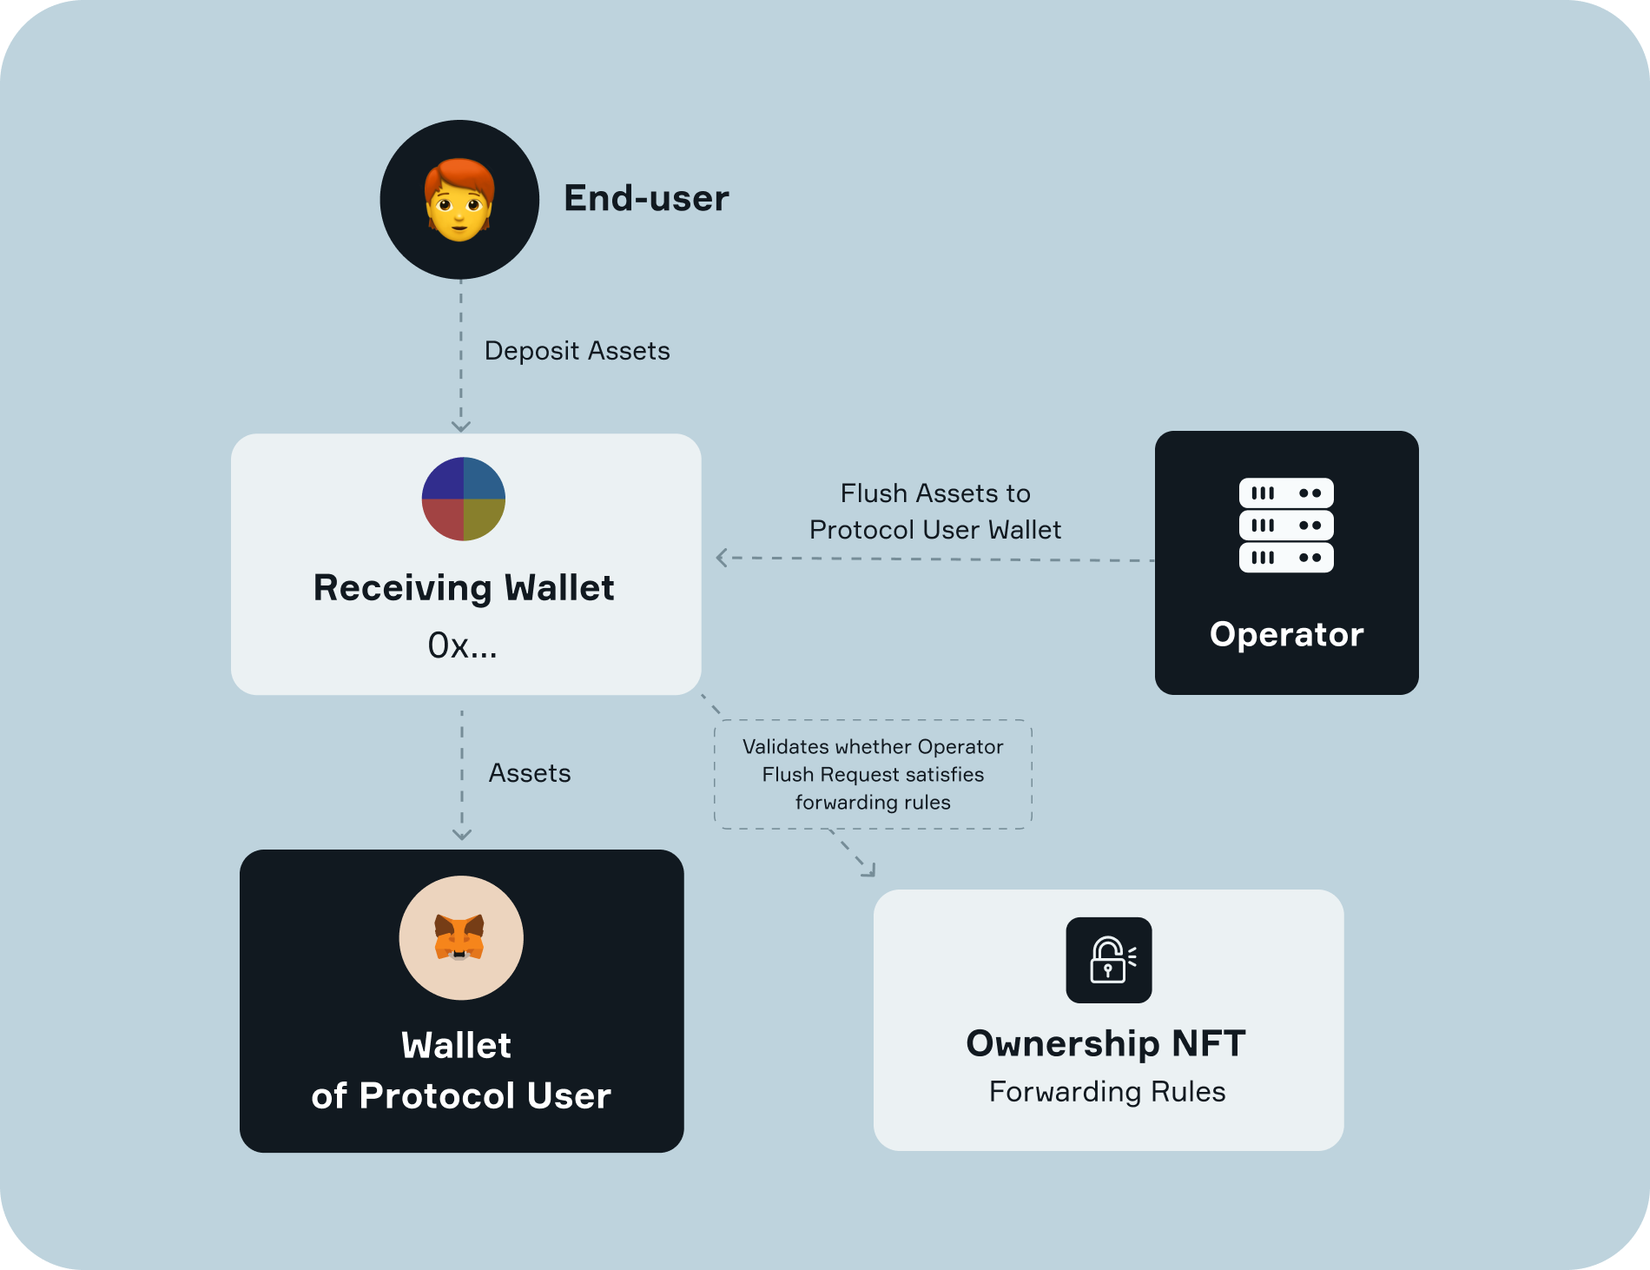
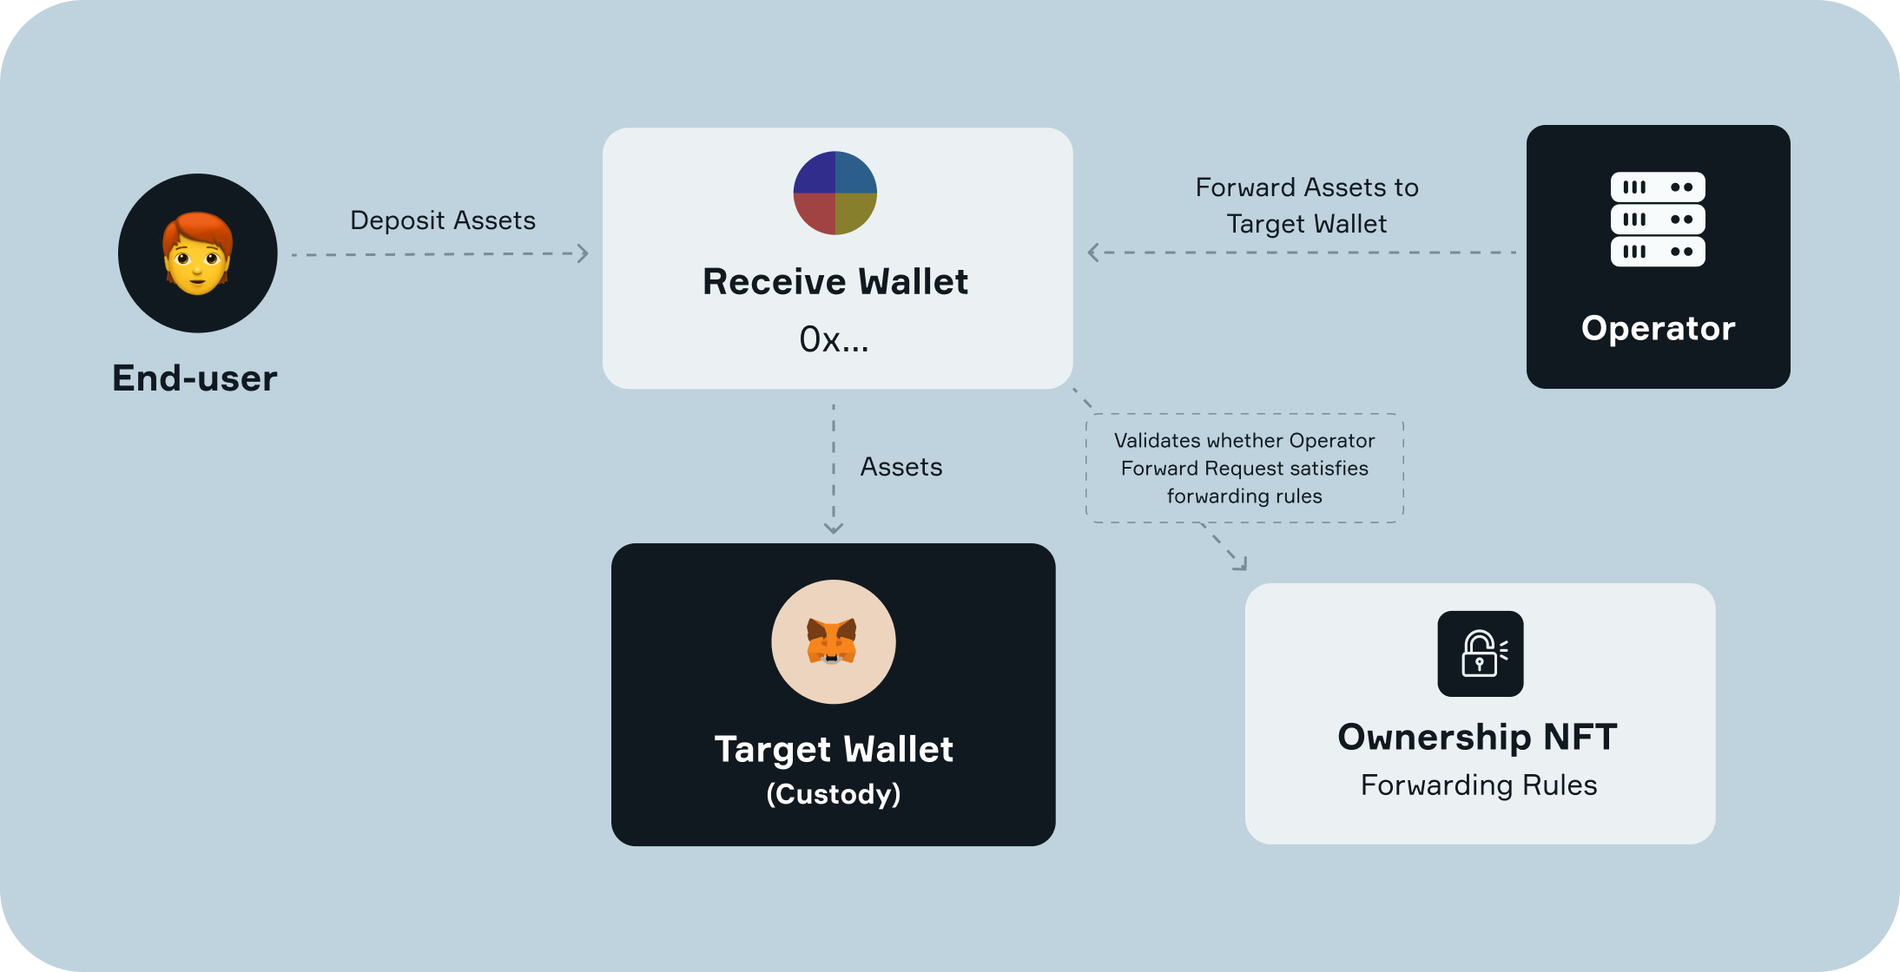
GITBOOK-52: No subject

diff --git a/introduction/architecture.md b/introduction/architecture.md
@@ -1,6 +1,6 @@
 # Architecture
 
-<figure><img src="../.gitbook/assets/Frame 48098604 (2).png" alt=""><figcaption></figcaption></figure>
+<figure><img src="../.gitbook/assets/Frame 48098604 (1).png" alt=""><figcaption></figcaption></figure>
 
 Curra Architecture is responsible for ensuring that crypto processing flow is executed correctly, secure and efficiently.&#x20;
 
@@ -12,29 +12,29 @@ In essence the Curra Protocol role is to continuously check if the conditions fo
 
 The **Protocol User** is a Merchant or Custodian who wants to accept cryptocurrency as a payment method and/or initiate withdrawals for employees or end-users.&#x20;
 
-**Protocol User** is required to deploy a **Rules Smart Contract**, which includes a list of approved addresses to forward funds to, and outlines the steps for executing on-chain automations during the clearing process, that are impossible to violate.
+**Protocol User** is required to deploy a [Rules Smart Contract](../developer-services/accept-crypto-payments/2-rules.md), which includes a list of whitelisted addresses to forward assets to, and outlines the steps for executing on-chain automations during the **forwarding** **process**, that are impossible to violate.
 
-Each **Protocol User** has to choose appropriate **Operator** for transactional clearing and gasless withdrawals relaying, depending on Operator pricing model and feature set or deploy it's own private Operator with custom logic.
+Each **Protocol User** has to choose appropriate **Operator** for transactional forwarding and gasless withdrawals relaying, depending on Operator pricing model and feature set. Both Protocol User can [deploy it's own private Operator with custom logic](../developer-services/deploy-operator.md).
 
 {% hint style="info" %}
-**Clearing** is a set of activities related to the settling process that assets must go through,&#x20;
+**Forwarding** **process** is a set of activities related to the settling process that assets must go through,&#x20;
 
 e.g. Forward to Cold Wallet, Settle assets in Stablecoin/Fiat, Execute AML Forwarding Rules, etc.
 {% endhint %}
 
 ### **Operator (aka. Acquirer)**
 
-The Operator is responsible for executing transactional clearing for Protocol User, triggering on-chain transaction from **Receiving Wallet** and Relaying Withdrawals for Protocol User**.**
+The Operator is responsible for executing **assets forwarding process** for Protocol User, triggering on-chain transaction from **Receive Wallet** and Relaying Withdrawals for Protocol User**.**
 
-**Operators** are restricted to transferring assets solely to the wallet of the **Protocol User (Target Address),** specified in **Rules Smart Contract** or executing automations as outlined in the **Rules Smart Contract.**&#x20;
+**Operators** are restricted to transferring assets solely to the wallet of the **Protocol User (Target Address),** specified in [Rules Smart Contract](../developer-services/accept-crypto-payments/2-rules.md) **** or executing automations as outlined in the Rules Smart Contract**.**&#x20;
 
 {% hint style="success" %}
-**Protocol User** assets, located on **Receiving Wallet** secured on-chain by **Rules Smart Contract**
+**Protocol User** assets, located on **Receive Wallet** secured on-chain by **Rules Smart Contract**
 
 **Protocol User** creates an **Ownership NFT** with specified forwarding rules, for example "forward only to hot wallet". All **Operator** transactions must comply with this rule, protecting Merchants and Custodians from Malicious activity of counterparties, otherwise transaction, initiated by Operator, will be rejected by network.
 {% endhint %}
 
-Anybody can deploy their own Operator implementing Forwarding Rules Interface to enhance crypto processing with consumer-oriented features.
+Anybody can [deploy](../developer-services/deploy-operator.md) their own Operator implementing [Forwarding Rules Interface](../developer-services/accept-crypto-payments/2-rules.md) to enhance crypto processing with consumer-oriented features.
 
 We anticipate that Fiat Off-ramp services, Compliance Services, Custodians, and other B2B Crypto Solutions will become Operators, contributing and expanding Curra Protocol, with their own monetisation model, to reach new clients, providing additional services along with crypto processing, not bothering with Crypto Processing Back-end.
 

diff --git a/introduction/key-benefits.md b/introduction/key-benefits.md
@@ -5,7 +5,7 @@ With Curra, our mission is to revolutionise blockchain and Web3 technology just 
 Merchants and Custodians now can use Curra Protocol to integrate crypto payments into their operations, and move away from Custodial Processing Services.
 
 * Simple: Curra Protocol automates most of the processing flow, making it easy to use.&#x20;
-* Secure: Funds are secured on-chain by forwarding rules, ensuring that they are protected.&#x20;
+* Secure: Assets are secured on-chain by forwarding rules, ensuring that they are protected.&#x20;
 * Fail-tolerant: On-chain architecture provides the most reliable uptime, as the blockchain can serve.&#x20;
 * No single point of failure: Multiple Operators are located all over the world, reducing the risk of any single point of failure.&#x20;
 * Multi-chain: protocol works with the most popular EVM-compatible and even non-EVM networks.&#x20;
@@ -20,7 +20,7 @@ Optimising core protocol contracts we achieved up to **30% less gas-costs**, com
 
 Moreover, Curra is few times cheaper, comparing to custodial crypto processing providers and even in-house development.
 
-<table data-view="cards"><thead><tr><th>Cost Comparison</th><th>Custodial Provider</th><th>In-house Development</th><th>Curra</th></tr></thead><tbody><tr><td><strong>Infrastructure</strong></td><td>Centralised</td><td>Centralised</td><td><strong>Decentralized</strong> ✅</td></tr><tr><td><strong>Monthly Server costs</strong></td><td>0</td><td>$ 1,000</td><td><strong>0</strong> ✅</td></tr><tr><td><strong>Gas Costs First Transaction</strong></td><td>0</td><td>3*21000 Gas + <code>transfer()</code></td><td><strong>&#x3C;42000 + 21000 Gas +</strong> <code>transfer()</code>✅</td></tr><tr><td><strong>Gas Costs Next Transaction</strong></td><td>0</td><td>3*21000 Gas + <code>transfer()</code></td><td><strong>21000 Gas +</strong> <code>transfer()</code> ✅</td></tr><tr><td><strong>Additional TX fee</strong></td><td>1%</td><td>0</td><td><strong>0</strong> ✅</td></tr><tr><td><strong>Engineering Time</strong></td><td>0</td><td>$ 3,000</td><td><strong>0</strong> ✅</td></tr><tr><td><strong>Funds Ownership</strong></td><td>Custodial</td><td>Self-custody</td><td><strong>Non-custodial</strong> ✅</td></tr><tr><td><strong>Estimated Monthly Costs</strong></td><td>$ 15,000</td><td>$ 12,448</td><td><strong>$ 4,550 </strong><mark style="color:green;"><strong></strong></mark> ✅</td></tr></tbody></table>
+<table data-view="cards"><thead><tr><th>Cost Comparison</th><th>Custodial Provider</th><th>In-house Development</th><th>Curra</th></tr></thead><tbody><tr><td><strong>Infrastructure</strong></td><td>Centralised</td><td>Centralised</td><td><strong>Decentralized</strong> ✅</td></tr><tr><td><strong>Monthly Server costs</strong></td><td>0</td><td>$ 1,000</td><td><strong>0</strong> ✅</td></tr><tr><td><strong>Gas Costs First Transaction</strong></td><td>0</td><td>3*21000 Gas + <code>transfer()</code></td><td><strong>&#x3C;42000 + 21000 Gas +</strong> <code>transfer()</code>✅</td></tr><tr><td><strong>Gas Costs Next Transaction</strong></td><td>0</td><td>3*21000 Gas + <code>transfer()</code></td><td><strong>21000 Gas +</strong> <code>transfer()</code> ✅</td></tr><tr><td><strong>Additional TX fee</strong></td><td>1%</td><td>0</td><td><strong>0</strong> ✅</td></tr><tr><td><strong>Engineering Time</strong></td><td>0</td><td>$ 3,000</td><td><strong>0</strong> ✅</td></tr><tr><td><strong>Assets Ownership</strong></td><td>Custodial</td><td>Self-custody</td><td><strong>Non-custodial</strong> ✅</td></tr><tr><td><strong>Estimated Monthly Costs</strong></td><td>$ 15,000</td><td>$ 12,448</td><td><strong>$ 4,550 </strong><mark style="color:green;"><strong></strong></mark> ✅</td></tr></tbody></table>
 
 {% hint style="info" %}
 Comparison Table for Merchant Volume: $1,500,000/month with average transaction amount $500

diff --git a/developer-services/accept-crypto-payments/2-rules.md b/developer-services/accept-crypto-payments/2-rules.md
@@ -2,23 +2,25 @@
 description: Ensure your assets are safe using rules contracts
 ---
 
-# Introduction
+# Rules
+
+## Introduction
 
 Rules are smart contracts deployed by Curra Protocol users ensure that user's assets can only be forwarded to certained addresses and make the protocol the first-ever payment processing tool that doesn't require direct access to your assets for processing. These rules are executed every time assets are going to be forwarded by the operator.
 
 Example rules:
 
-* Flush USDC, ETH, and UNI to Hot Wallet 1
-* Flush only if the total balance of the receiving wallet exceeds 250 USDC
-* If the transaction risk score exceeds 20%, flush tokens to the Risk Assets Wallet
-* If the transaction amount exceeds 100,000 USDC, flush to Cold Wallet
+* Forward USDC, ETH, and UNI to Hot Wallet 1
+* Forward only if the total balance of the receiving wallet exceeds 250 USDC
+* If the transaction risk score exceeds 20%, forward tokens to the Risk Assets Wallet
+* If the transaction amount exceeds 100,000 USDC, forward to Cold Wallet
 * If WBTC is received, swap to USDC via Uniswap and send to Hot Wallet 3
 
 {% hint style="info" %}
-If you have any questions at any point in time, feel free to reach out to us on [**Discord**](https://discord.com/invite/5Qpn6Ksm)
+If you have any questions at any point in time, feel free to reach out to us on [Discord](https://discord.com/invite/5Qpn6Ksm)
 {% endhint %}
 
-# How to use
+## How to use
 
 As mentioned before users can deploy their own rules contracts, those contracts are required to implement [Rule.sol](https://github.com/curra-web3/contracts/blob/main/src/Rule.sol) interface, let's take at look at it:
 
@@ -46,8 +48,7 @@ interface Rule {
 }
 ```
 
-As you can see here are mutiple methods for each token standard, for example, let's look at the `execERC20()` method, which is going to be executed everytime when operator tries to forward your erc20 assets. For details on each token standard you can check out documented source code [here](https://github.com/curra-web3/contracts/blob/main/src/Rule.sol).
-`execERC20()` method accepts following params:
+As you can see here are mutiple methods for each token standard, for example, let's look at the `execERC20()` method, which is going to be executed everytime when operator tries to forward your erc20 assets. For details on each token standard you can check out documented source code [here](https://github.com/curra-web3/contracts/blob/main/src/Rule.sol). `execERC20()` method accepts following params:
 
 * `ownershipId` – id of your Ownership NFT
 * `forwarder` – receiving address which is going to be processed by a operator
@@ -80,10 +81,11 @@ contract WhitelistedAddressRule is Rule {
 }
 ```
 
-First thing you can notice is that [WhitelistedAddressRule.sol](https://github.com/curra-web3/contracts/blob/main/src/WhitelistedAddressRule.sol) implements the [Rule.sol](https://github.com/curra-web3/contracts/blob/main/src/Rule.sol) interface, which is required for all rules to implement. 
+First thing you can notice is that [WhitelistedAddressRule.sol](https://github.com/curra-web3/contracts/blob/main/src/WhitelistedAddressRule.sol) implements the [Rule.sol](https://github.com/curra-web3/contracts/blob/main/src/Rule.sol) interface, which is required for all rules to implement.
 
 The code above does the following:
+
 1. If the destination specified by the operator is a null address, just return the whitelisted address `whitelisted`.
 2. If a destination is provided by the operator, ensure that it's equal to the whitelisted address.
-    * If it's not equal, abort.
-    * If it's equal, allow forwarding.
+   * If it's not equal, abort.
+   * If it's equal, allow forwarding.

diff --git a/developer-services/accept-crypto-payments/4-create-receiving-wallet.md b/developer-services/accept-crypto-payments/4-create-receiving-wallet.md
@@ -1,24 +1,26 @@
-# Create Receiving Wallet
+# Create Receive Wallet
 
-Merchants and Custodians create unique receiving wallets to accept payments from end-users for identification purposes.
+Merchants and Custodians create unique receive wallets to accept payments from end-users for identification purposes.
 
-With Curra, you can create Receiving Wallets on your side using the SDK. All Receiving Wallets are pre-calculated off-chain (from Ownership NFT) using the CREATE2 algorithm.
+With Curra, you can create Receive Wallets on your side using the SDK. All Receiving Wallets are pre-calculated off-chain (from Ownership NFT) using the CREATE2 algorithm.
 
-After the end-user sends assets to the Receiving Wallet, the Operator deploys a smart contract to this wallet (for the first flush) and flushes the asset according to the forwarding rule specified in the Rules Smart Contract, charging the protocol user a fee for this operation.
+After the end-user sends assets to the Receive Wallet, the Operator deploys a smart contract to this wallet (for the first flush) and flushes the asset according to the forwarding rule specified in the Rules Smart Contract, charging the protocol user a fee for this operation.
 
 ### Usage
+
 You can create forwarding addresses via [Curra DApp](https://app.curra.io) or use [Curra SDK](developer-services/javascript-ts-sdk.md).
 
 ### How it works
+
 Let's describe the full flow from address creation to assets being forwarded to the target address in detail using the following example: "Receive 1 USDC ERC20 to the address with index 5i and ownership NFT ID #100."
 
-1. The address is deterministically precalculated based on the NFT ID and address index using the CREATE2 algorithm. '#100' + '5i' is used as salt.
+1. The address is deterministically pre-calculated based on the NFT ID and address index using the **CREATE2** algorithm. '#100' + '5i' is used as salt.
 2. The address is imported to the Coordinator, which indexes it for incoming transactions.
 3. 1 USDC is transacted to the address.
 4. The Coordinator detects the transaction and broadcasts a forwarding job to all operators.
 5. If you have chosen a specific operator, it will create a forwarding transaction for you.
-    * If it is the first transaction to the address, the operator will deploy a contract that will automatically transfer ETH.
-    * If it is not the first transaction, the operator will trigger forwarding on the previously deployed contract.
-6. If the operator's transaction satisfies the rule smart contract linked to the ownership NFT, the assets will be forwarded to the destination address.
+   * If it is the first transaction to the address, the operator will deploy a forwarder contract to receive address that will automatically transfer ETH.
+   * If it is not the first transaction, the operator will trigger forwarding on the previously deployed contract.
+6. If the operator's transaction satisfies the rule smart contract linked to the ownership NFT, the assets will be forwarded to the destination address. If transaction doesn't satisfies the rule smart contract - transaction will be failed by blockchain.
 
-The process of assets forwarding is completely trustless and backed by Curra smart contracts.
+The process of assets forwarding is completely trustless and backed by [Curra Smart Contracts](https://github.com/curra-web3/contracts).

diff --git a/developer-services/accept-crypto-payments/1-obtain-ownership-nft.md b/developer-services/accept-crypto-payments/1-obtain-ownership-nft.md
@@ -2,7 +2,7 @@
 description: Your Custody in NFT
 ---
 
-# Obtaining Ownership NFT
+# Obtain Ownership NFT
 
 Obtaining the Ownership NFT is the first step to start your journey with Curra. This token serves as a personal identifier and a key for Protocol User to gain access to Curra.
 
@@ -14,6 +14,7 @@ The Ownership NFT offers the following advantages:
 * NFT IDs are used as a salt when generating deterministic forwarding addresses and are the backbone of the protocol security.
 
 Also:
+
 * NFTs can be transferred to other addresses, including smart contract wallets such as ChainSafe.
 * A single account can possess multiple NFTs.
 * NFTs can be staked or swapped on any protocol that supports ERC721 tokens.
@@ -22,9 +23,8 @@ Also:
 
 ### How to Obtain
 
-You can mint the Ownership NFT via [Curra DApp](https://app.curra.io), or by calling the `mint(address recipient, address rule)` method on the Curra main contract [Traffic.sol](https://github.com/curra-web3/contracts/blob/main/src/Traffic.sol#L49). 
+You can mint the Ownership NFT via [Curra DApp](https://app.curra.io), or by calling the `mint(address recipient, address rule)` method on the Curra main contract [Traffic.sol](https://github.com/curra-web3/contracts/blob/main/src/Traffic.sol#L49).
 
 {% hint style="info" %}
-By default, minted NFTs will be linked with the "Whitelisted Address Rule", which means that it will enable asset forwarding only to the address that minted the NFT.
+By default, minted NFTs will be linked with the [Whitelisted Address Rule](2-rules.md), which means that it will enable asset forwarding only to the address that minted the NFT.
 {% endhint %}
-

diff --git a/SUMMARY.md b/SUMMARY.md
@@ -9,12 +9,11 @@
 ## Developer Services
 
 * [Accept Crypto Payments](developer-services/accept-crypto-payments/README.md)
-	* [Obtain Ownership NFT](developer-services/accept-crypto-payments/1-obtain-ownership-nft.md)
-	* [Rules](developer-services/accept-crypto-payments/2-rules.md)
-	* [Choose Operator](developer-services/accept-crypto-payments/3-choose-operator.md)
-	* [Create Receiving Wallet](developer-services/accept-crypto-payments/4-create-receiving-wallet.md)
-	* [Transaction Notifications](developer-services/accept-crypto-payments/5-transaction-notifications.md)
-
+  * [Obtain Ownership NFT](developer-services/accept-crypto-payments/1-obtain-ownership-nft.md)
+  * [Rules](developer-services/accept-crypto-payments/2-rules.md)
+  * [Choose Operator](developer-services/accept-crypto-payments/3-choose-operator.md)
+  * [Create Receive Wallet](developer-services/accept-crypto-payments/4-create-receiving-wallet.md)
+  * [Transaction Notifications](developer-services/accept-crypto-payments/5-transaction-notifications.md)
 * [🔜 Relay Crypto Withdrawals](developer-services/relay-crypto-withdrawals.md)
 * [🔜 Deploy Operator](developer-services/deploy-operator.md)
 * [Curra Crypto API](developer-services/curra-crypto-api.md)

diff --git a/developer-services/accept-crypto-payments/README.md b/developer-services/accept-crypto-payments/README.md
@@ -4,14 +4,14 @@ description: With Decentralised and Trustless Crypto Processing Protocol.
 
 # Accept Crypto Payments
 
-<figure><img src="../../.gitbook/assets/Illustration (2).png" alt=""><figcaption></figcaption></figure>
+<figure><img src="../../.gitbook/assets/Illustration (1).png" alt=""><figcaption></figcaption></figure>
 
 Curra Protocol is designed to make it super easy for you to setup and manage your crypto processing automations, protocol handles the blockchain complexities for you, every step of the way.
 
 In the following sections we will go into more detail on how to accept crypto payments.
 
 * Mint Ownership NFT to start your journey with Curra
-* Link `Rule.sol` smart contract to Onwnership NFT for funds on-chain protection
-* Choose Operator to flush funds to Hot Wallet (Target Address)
-* Create Receiving Wallets
+* Link `Rule.sol` smart contract to Onwnership NFT for assets on-chain protection
+* Choose Operator to forward assets to Target Address (e.g. Hot Wallet)
+* Create Receive Wallets
 * Receive Payment Notification

diff --git a/README.md b/README.md
@@ -14,10 +14,10 @@ Creating on-chain protocol to replace centralized nature of crypto processing, C
 
 ## With Curra developers can:
 
-* Create unique receiving wallets or issue invoices to accept crypto from customers in crypto
+* Create unique receive wallets or issue invoices to accept crypto from customers in crypto
 * Track the status of crypto payments
 * Create automations for crypto processing flow
-* Relay trustless crypto withdrawals through meta transactions
+* Relay trustless crypto withdrawals
 
 ## Protocol Roles
 
@@ -43,7 +43,7 @@ Curra Protocol is currently in Alpha. [Application for Mainnet early adopters he
 * [ ] Polygon
 * [ ] Tron
 
-## **Useful Links**:
+## **Useful Links**
 
-* ****[**Website**](https://curra.io)****
-* ****[**Discord**](https://discord.gg/5Qpn6Ksm)****
+* [Website](https://curra.io)
+* [Discord](https://discord.gg/5Qpn6Ksm)

diff --git a/developer-services/deploy-operator.md b/developer-services/deploy-operator.md
@@ -4,7 +4,7 @@ description: Coming Soon.
 
 # 🔜 Deploy Operator
 
-Operators are critical to Curra decentralized protocol, they are responsible for executing transactional clearing for Protocol User, triggering on-chain transaction from **Receiving Wallet** and Relaying Withdrawals for Protocol User**.**
+Operators are critical to Curra decentralized protocol, they are responsible for executing transactional clearing for Protocol User, triggering on-chain transaction from **Receive Wallet** and Relaying Withdrawals for Protocol User**.**
 
 Anybody can deploy their own Operator implementing Operator Interface to enhance crypto processing with consumer-oriented features and pricing models.
 

diff --git a/developer-services/accept-crypto-payments/3-choose-operator.md b/developer-services/accept-crypto-payments/3-choose-operator.md
@@ -1,6 +1,6 @@
-# Operator
+# Choose Operator
 
-Operators are responsible for executing transactional clearing for Protocol User, triggering on-chain transaction from **Receiving Wallet** and Relaying Withdrawals for Protocol User with their own pricing model and feature set.&#x20;
+Operators are responsible for executing transactional clearing for Protocol User, triggering on-chain transaction from **Receive Wallet** and Relaying Withdrawals for Protocol User with their own pricing model and feature set.
 
 Depending on your needs, you can find a suitable operator.
 
